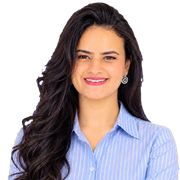
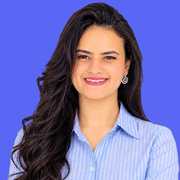
Icône carrée fond bleu et titre de partage
Claude-Session: https://claude.ai/code/session_016J8KeiXPXn4KzNRr3LwqBv

diff --git a/index.html b/index.html
@@ -12,14 +12,14 @@
 <link rel="canonical" href="https://yasmineboumaiza92-cpu.github.io/yassmine.github.io/">
 <meta property="og:type" content="website">
 <meta property="og:site_name" content="Yasmineboumaiza">
-<meta property="og:title" content="Yasmineboumaiza - portfolio UI/UX and graphic designer">
+<meta property="og:title" content="YasmineBoumaiza-Portfolio UX/UI &amp; Graphic Designer">
 <meta property="og:description" content="Portfolio de Yasmine Boumaiza, graphiste et designer UI/UX basée à Tunis : identités visuelles, campagnes, interfaces.">
 <meta property="og:url" content="https://yasmineboumaiza92-cpu.github.io/yassmine.github.io/">
 <meta property="og:image" content="https://yasmineboumaiza92-cpu.github.io/yassmine.github.io/img/og-cover.jpg">
 <meta property="og:image:width" content="1200">
 <meta property="og:image:height" content="630">
 <meta name="twitter:card" content="summary_large_image">
-<meta name="twitter:title" content="Yasmineboumaiza - portfolio UI/UX and graphic designer">
+<meta name="twitter:title" content="YasmineBoumaiza-Portfolio UX/UI &amp; Graphic Designer">
 <meta name="twitter:description" content="Portfolio de Yasmine Boumaiza, graphiste et designer UI/UX basée à Tunis : identités visuelles, campagnes, interfaces.">
 <meta name="twitter:image" content="https://yasmineboumaiza92-cpu.github.io/yassmine.github.io/img/og-cover.jpg">
 <link rel="preconnect" href="https://fonts.googleapis.com">
